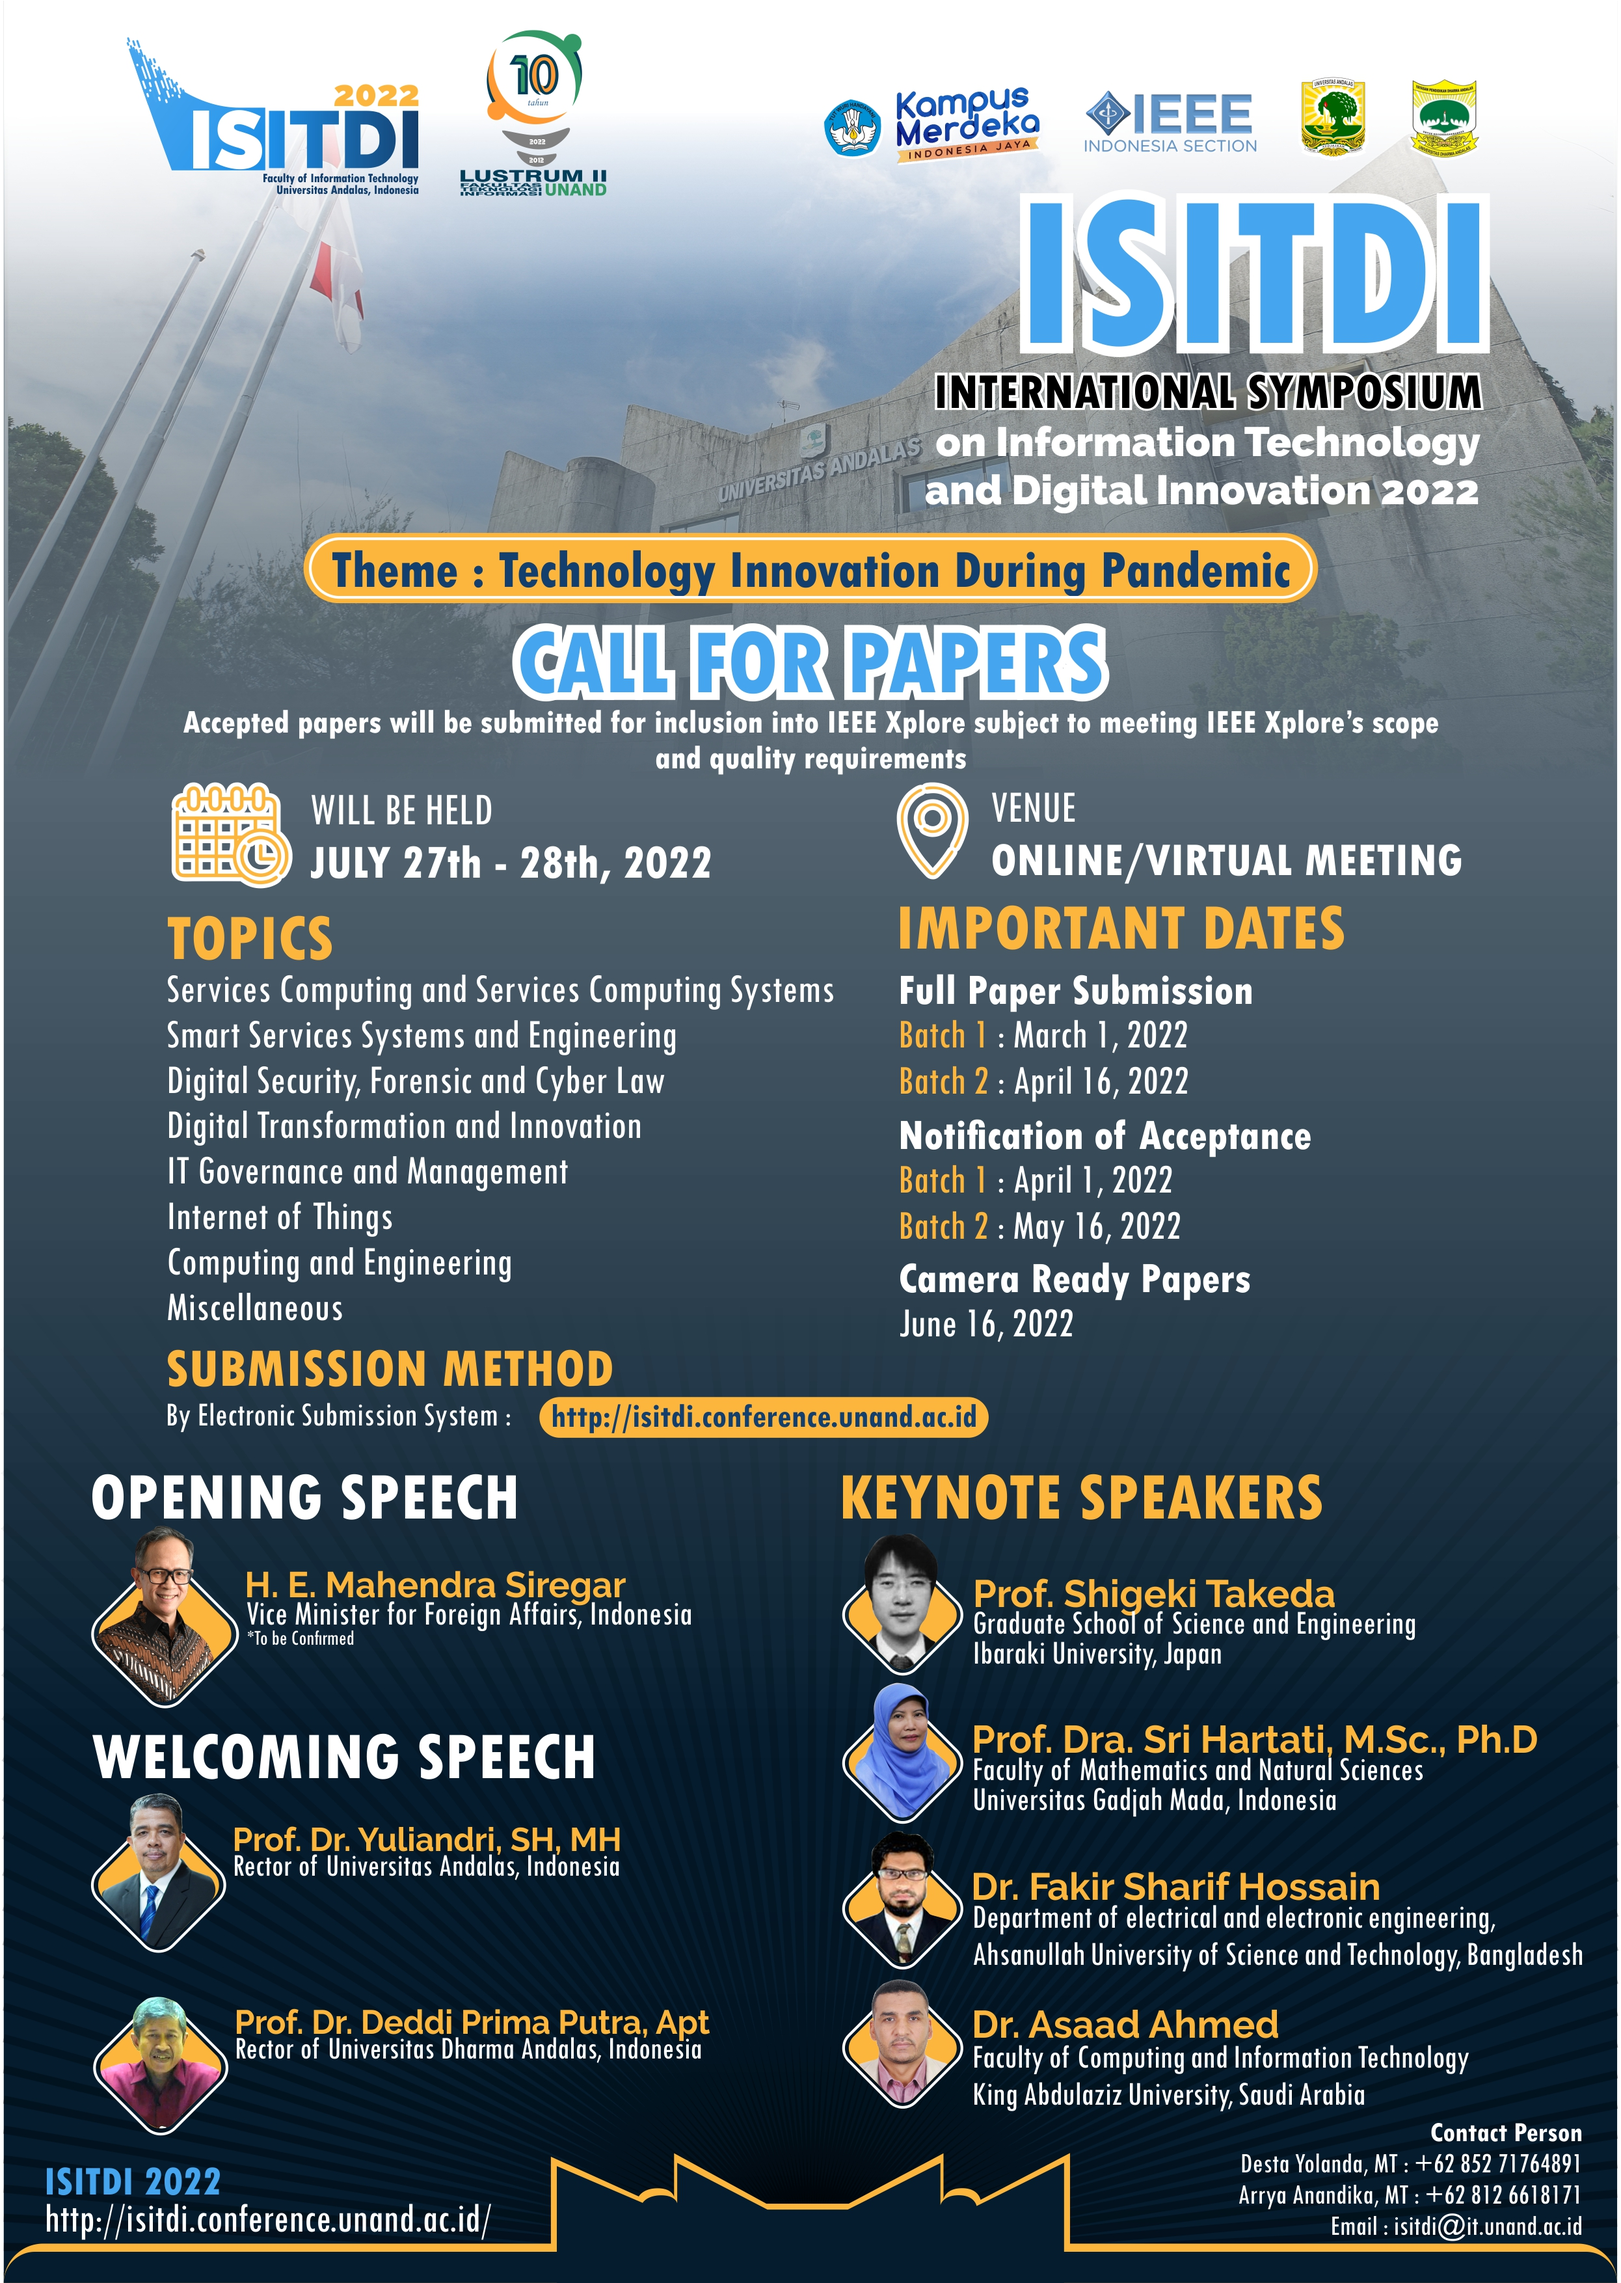
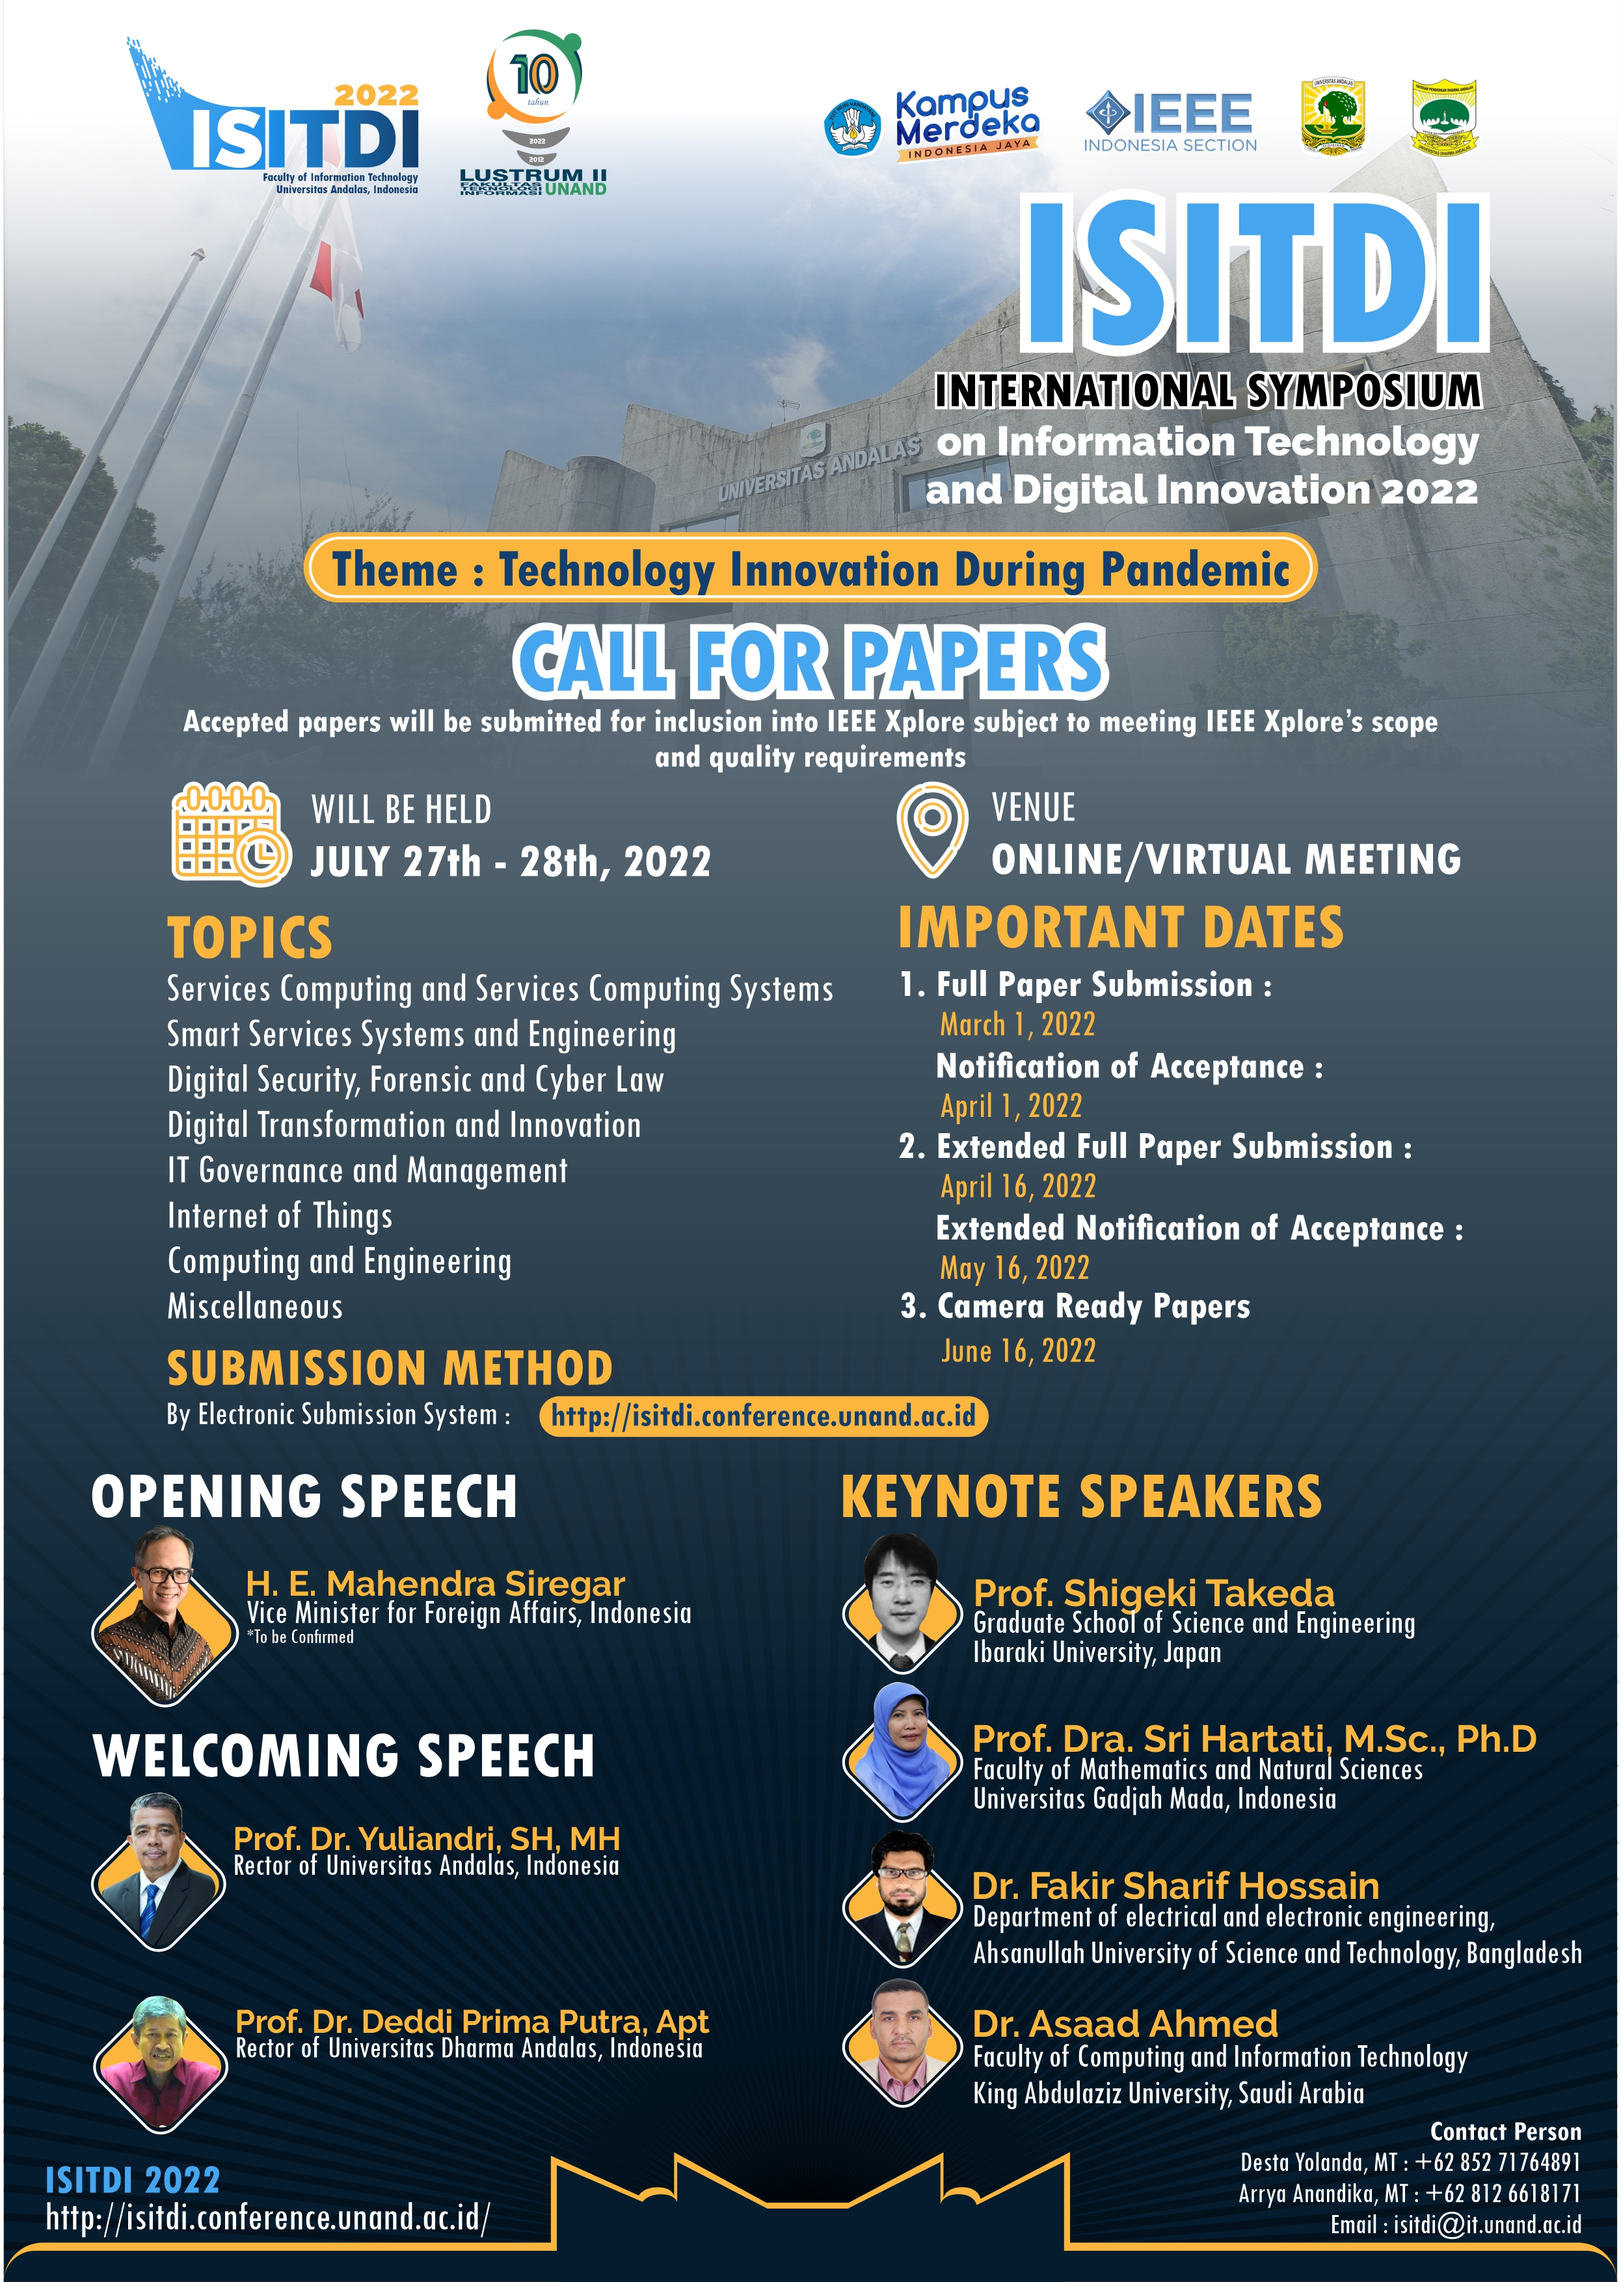
update

diff --git a/index.html b/index.html
@@ -236,8 +236,16 @@
 
         <div class="container" id="speaker_">
             <div class="col-sm-12">
-                <div class="row text-center ">
-                    <div class="card border border-warning speech" id="speakerCard">
+                <div class="row text-center d-flex justify-content-center">
+                    <div class="card border border-warning " id="speakerCard">
+                        <h3 class="text-center" id="op-title">Opening Speech</h3>
+                        <center> <img src="/img/pic11.png" class="card-img-top" alt="Dr. Fakir Sharif Hossain"></center>
+                        <div class="card-body">
+                            <h5 class="card-title">H. E. Mahendra Siregar, S.E., M.Ec.</h5>
+                            <p class="card-text">Vice Minister for Foreign Affairs, Indonesia</p>
+                        </div>
+                    </div>
+                    <div class="card border border-warning" id="speakerCard">
                         <h3 class="text-center" id="op-title">Welcoming Speech</h3>
                         <center> <img src="/img/pic12.png" class="card-img-top" alt="Dr.Asaad Ahmed"></center>
                         <div class="card-body">
@@ -251,14 +259,6 @@
                         <div class="card-body">
                             <h5 class="card-title">Prof. Dr. Deddi Prima Putra, Apt</h5>
                             <p class="card-text">Rector of Universitas Dharma Andalas, Indonesia</p>
-                        </div>
-                    </div>
-                    <div class="card border border-warning " id="speakerCard">
-                        <h3 class="text-center" id="op-title">Opening Speech</h3>
-                        <center> <img src="/img/pic11.png" class="card-img-top" alt="Dr. Fakir Sharif Hossain"></center>
-                        <div class="card-body">
-                            <h5 class="card-title">H. E. Mahendra Siregar, S.E., M.Ec.</h5>
-                            <p class="card-text">Vice Minister for Foreign Affairs, Indonesia</p>
                         </div>
                     </div>
                 </div>
@@ -294,7 +294,7 @@
                         <center> <img src="/img/3.png" class="card-img-top" alt="Dr. Fakir Sharif Hossain"></center>
                         <div class="card-body">
                             <h5 class="card-title">Dr. Fakir Sharif Hossain</h5>
-                            <p class="card-text">Bangladesh Army International University of Science and Technology, Bangladesh.</p>
+                            <p class="card-text">Department of Electrical and Electronic Engineering, Ahsanullah University of Science and Technology, Bangladesh.</p>
                         </div>
                     </div>
                     <div class="card border border-warning" id="speakerCard">
@@ -1293,10 +1293,13 @@
                                                     <h4>Full paper submission deadline</h4>
                                                     <ul class="event-desc">
                                                         <li>
-                                                            <p>Batch 1: 1 March 2022</p>
+                                                            <p>1 March 2022</p>
                                                         </li>
+                                                    </ul>
+                                                    <h4>Full paper acceptance notification</h4>
+                                                    <ul class="event-desc">
                                                         <li>
-                                                            <p>Batch 2: 16 April 2022</p>
+                                                            <p>1 April 2022</p>
                                                         </li>
                                                     </ul>
                                                 </div>
@@ -1305,13 +1308,16 @@
                                                 <div class="col-md-5">
                                                 </div>
                                                 <div class="col-md-12">
-                                                    <h4>Full paper acceptance notification</h4>
+                                                    <h4>Extended full paper submission deadline</h4>
                                                     <ul class="event-desc">
                                                         <li>
-                                                            <p>Batch 1: 1 April 2022</p>
+                                                            <p> 16 April 2022</p>
                                                         </li>
+                                                    </ul>
+                                                    <h4>Extended full paper acceptance notification</h4>
+                                                    <ul class="event-desc">
                                                         <li>
-                                                            <p>Batch 2: 16 May 2022</p>
+                                                            <p>16 May 2022</p>
                                                         </li>
                                                     </ul>
                                                 </div>
@@ -1365,10 +1371,7 @@
                                         <h4>Full paper submission deadline</h4>
                                         <ul class="event-desc">
                                             <li>
-                                                <p>Batch 1: 1 March 2022</p>
-                                            </li>
-                                            <li>
-                                                <p>Batch 2: 16 April 2022</p>
+                                                <p>1 March 2022</p>
                                             </li>
                                         </ul>
                                     </div>
@@ -1376,10 +1379,7 @@
                                         <h4>Full paper acceptance notification</h4>
                                         <ul class="event-desc">
                                             <li>
-                                                <p>Batch 1: 1 April 2022</p>
-                                            </li>
-                                            <li>
-                                                <p>Batch 2: 16 May 2022</p>
+                                                <p>1 April 2022</p>
                                             </li>
                                             <h4>Conference Due</h4>
                                             <ul class="event-desc">
@@ -1712,7 +1712,7 @@
                                 <div class="col-md-5 ">
                                 </div>
                                 <div class="col-md-12 ">
-                                    <h4 style="color:#FCB53D ">Batch 1 Submit paper deadline</h4>
+                                    <h4 style="color:#FCB53D ">Submit paper deadline</h4>
                                     <ul class="event-desc ">
                                         <li>
                                             <p>1 March 2022</p>
